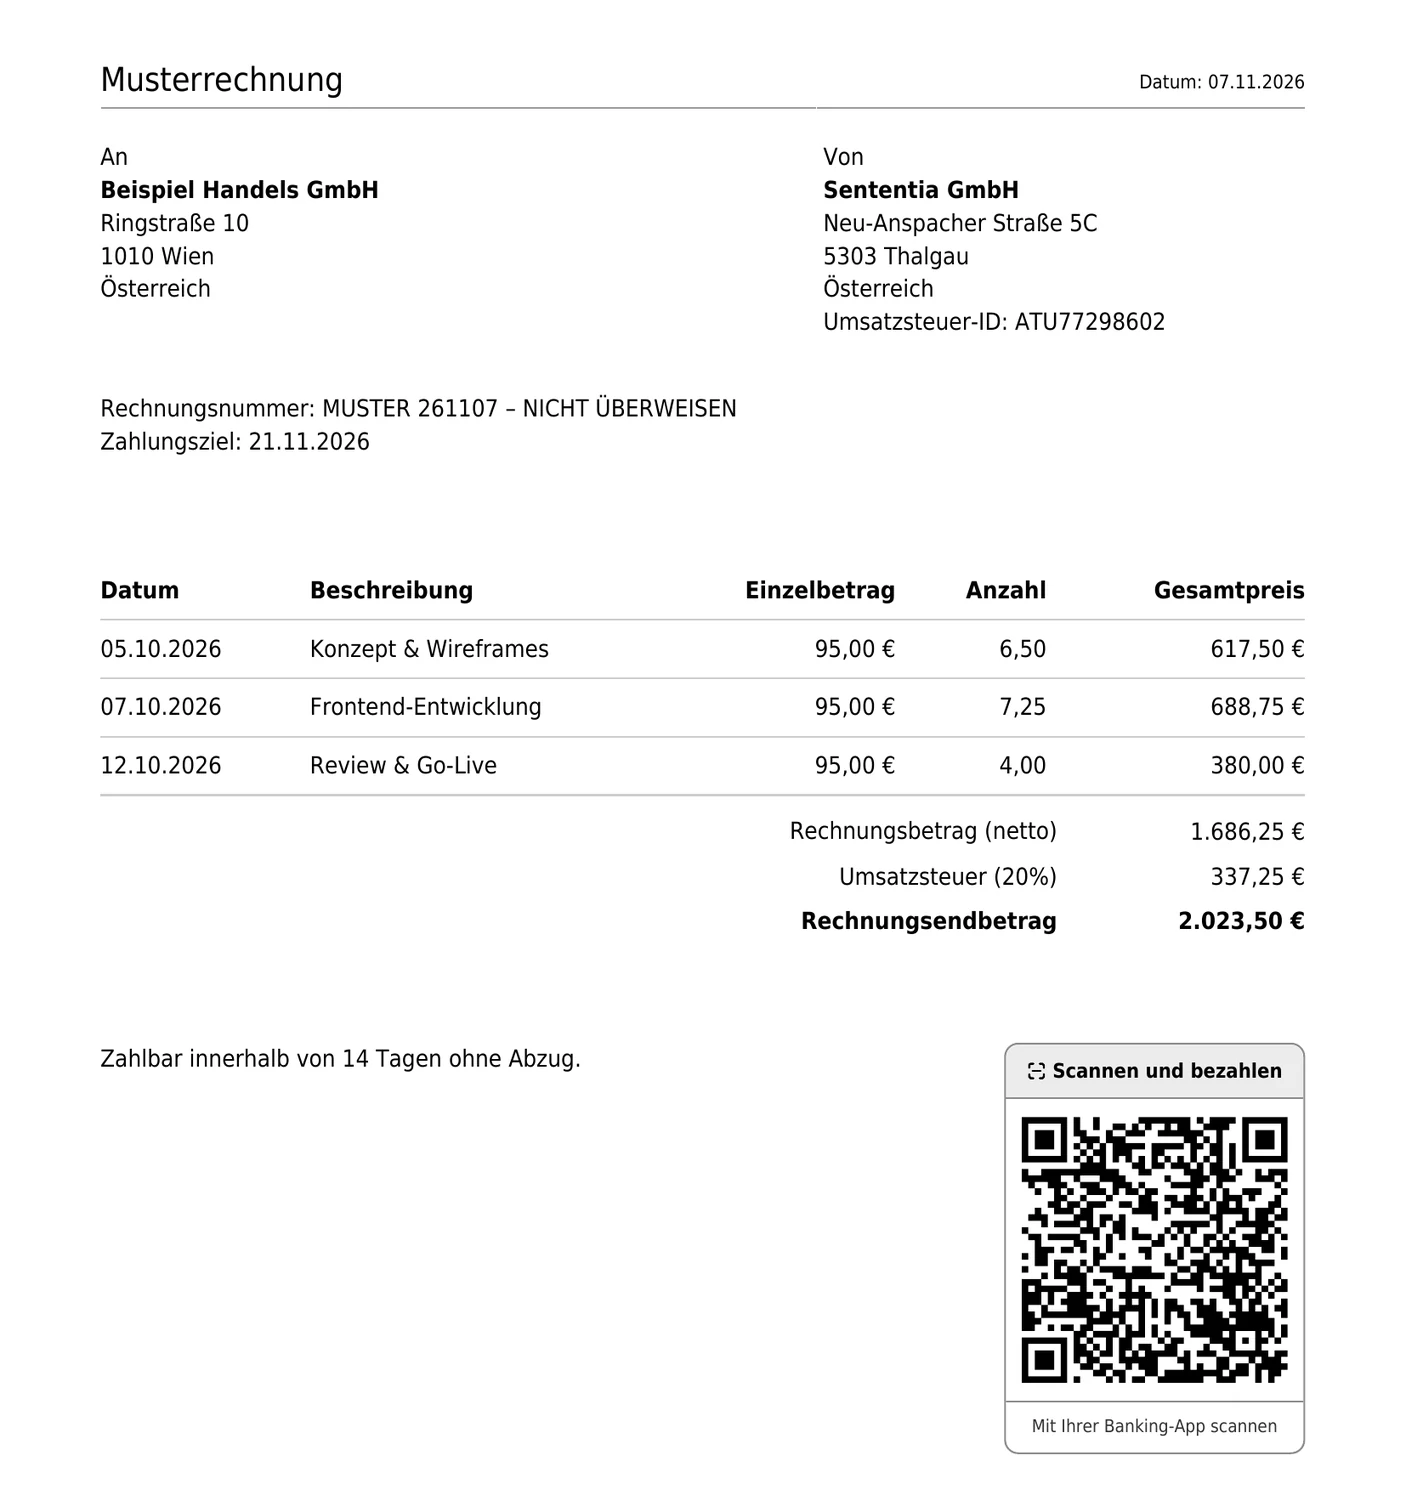
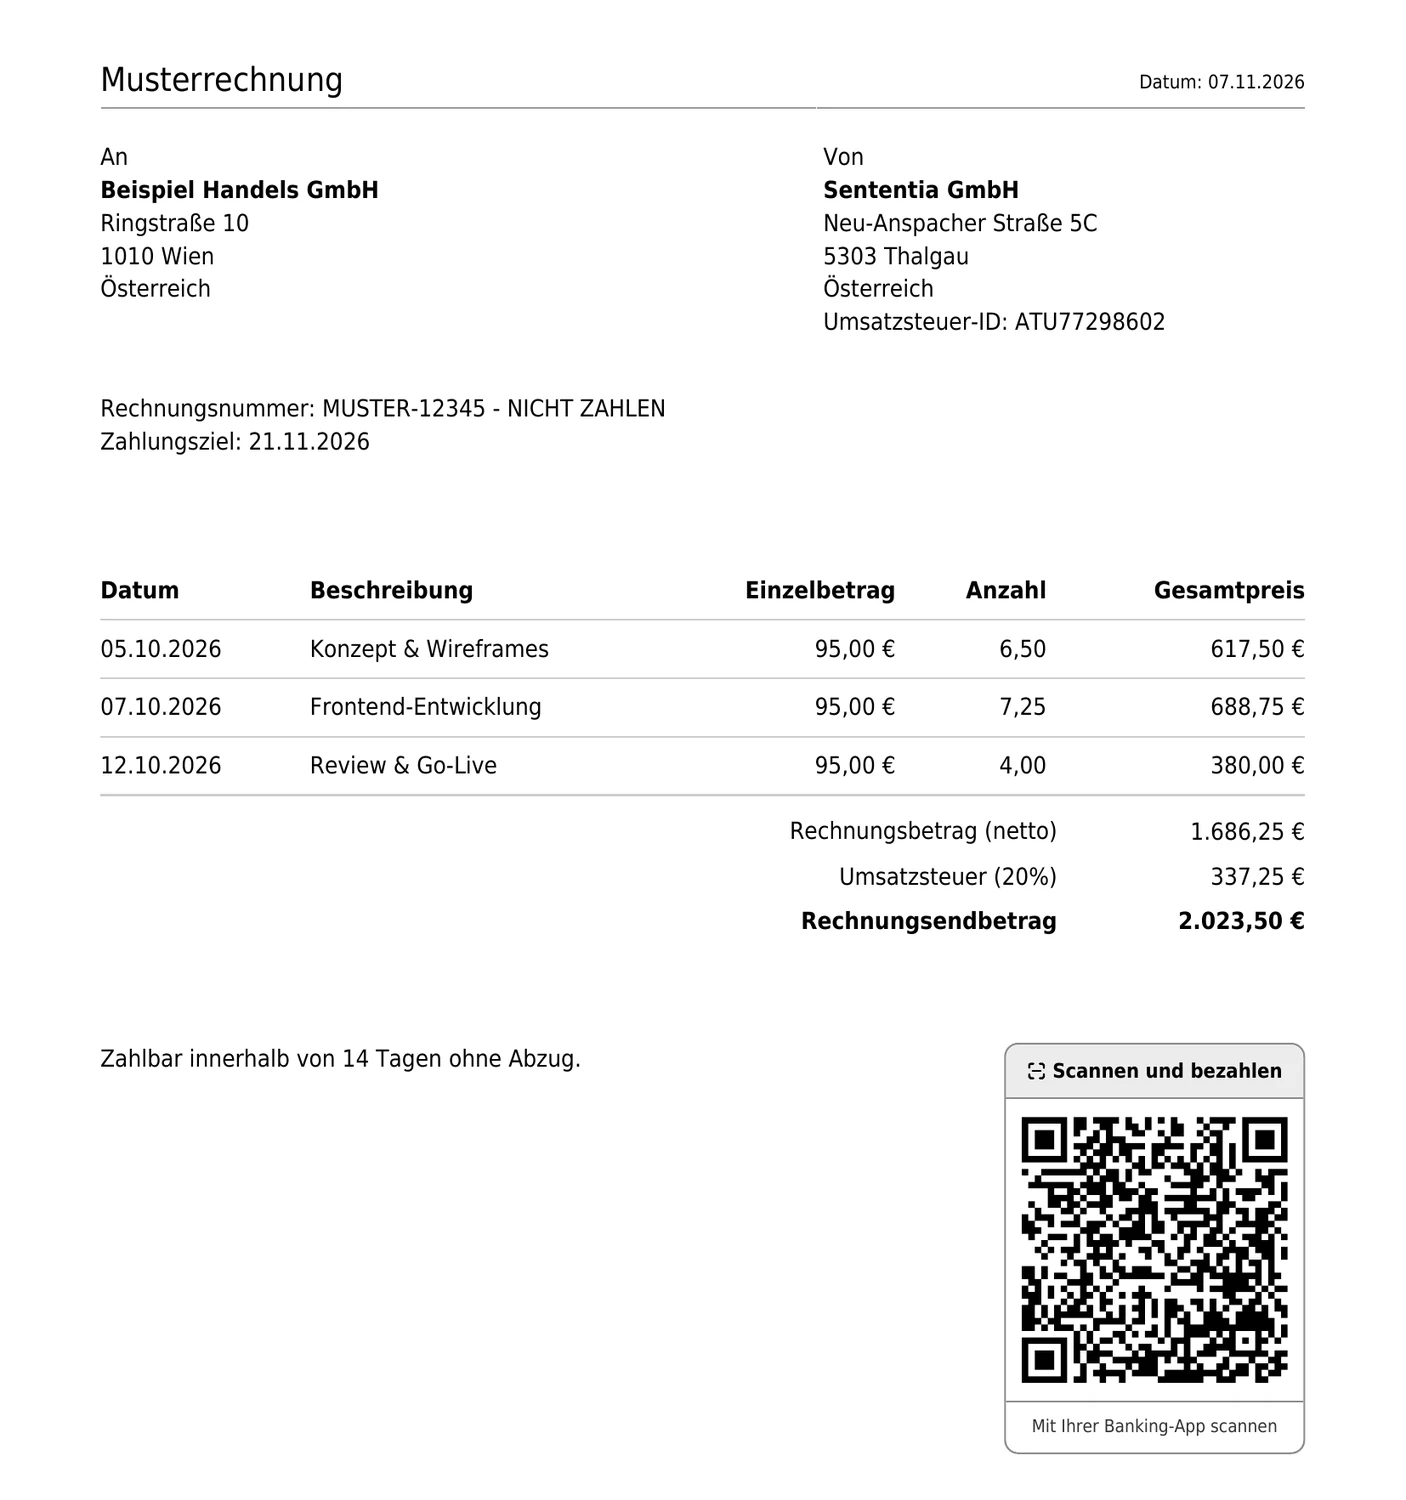
EPC QR-Code store listing: sample images with MUSTER-12345 - NICHT ZAHLEN, SEPA character set
The sample QR codes point to the Sententia account with a sample remittance
text in the SEPA character set; the listing explains how beneficiary and
remittance text are converted.

Changed region(s): [[0.7034, 0.736, 0.9175, 0.92], [0.3058, 0.2453, 0.5199, 0.276], [0.8869, 0.7667, 0.9175, 0.7973]]

diff --git a/_includes/store/sententia-epc-qr.md b/_includes/store/sententia-epc-qr.md
@@ -45,6 +45,8 @@ Fertig. Der QR-Code enthält:
 | Zahlungszweck (SEPA-Code) | optional, aus der Rechnungsvorlage |
 | Verwendungszweck | Rechnungsnummer |
 
+Empfänger und Verwendungszweck werden auf den Zeichensatz reduziert, den jede SEPA-Bank verarbeiten muss (`a-z A-Z 0-9 / - ? : ( ) . , ' +` und Leerzeichen), umgewandelt nach den Empfehlungen der EPC: Umlaute werden zu `ae oe ue ss`, `€` zu `E`, `&` zu `+`, Akzente entfallen, Zeichen ohne Entsprechung werden zum Punkt. So lehnt keine Bank den Code wegen Sonderzeichen ab.
+
 **Wann fehlt der QR-Code?** Wenn in der Vorlage keine gültige IBAN steht, die Rechnung nicht in EUR ausgestellt ist, die Summe 0 beträgt oder der Lizenzschlüssel fehlt, abgelaufen oder für die Domain ungültig ist. Die Rechnung wird dann unverändert erstellt.
 
 **Andere Währungen?** Der EPC-QR-Code (EPC069-12) ist ein Standard für SEPA-Überweisungen und erlaubt ausschließlich Euro – Banking-Apps lehnen Codes mit anderen Währungen ab. Für Rechnungen in CHF, USD, GBP usw. wird deshalb kein QR-Code gedruckt; die Rechnung bleibt unverändert.
@@ -164,6 +166,8 @@ That's it. The QR code contains:
 | Amount | invoice total in EUR (the EPC QR code standard is defined for euro only) |
 | Purpose code | optional, from the invoice template |
 | Remittance | invoice number |
+
+Beneficiary and remittance text are reduced to the character set every SEPA bank must process (`a-z A-Z 0-9 / - ? : ( ) . , ' +` and space), converted as recommended by the EPC: umlauts become `ae oe ue ss`, `€` becomes `E`, `&` becomes `+`, accents are dropped, characters without an equivalent become a full stop. No bank rejects the code because of special characters.
 
 **When is the QR code missing?** When the template has no valid IBAN, the invoice currency is not EUR, the invoice total is 0, or the license key is missing, expired or not valid for the domain. The invoice is then created unchanged.
 
